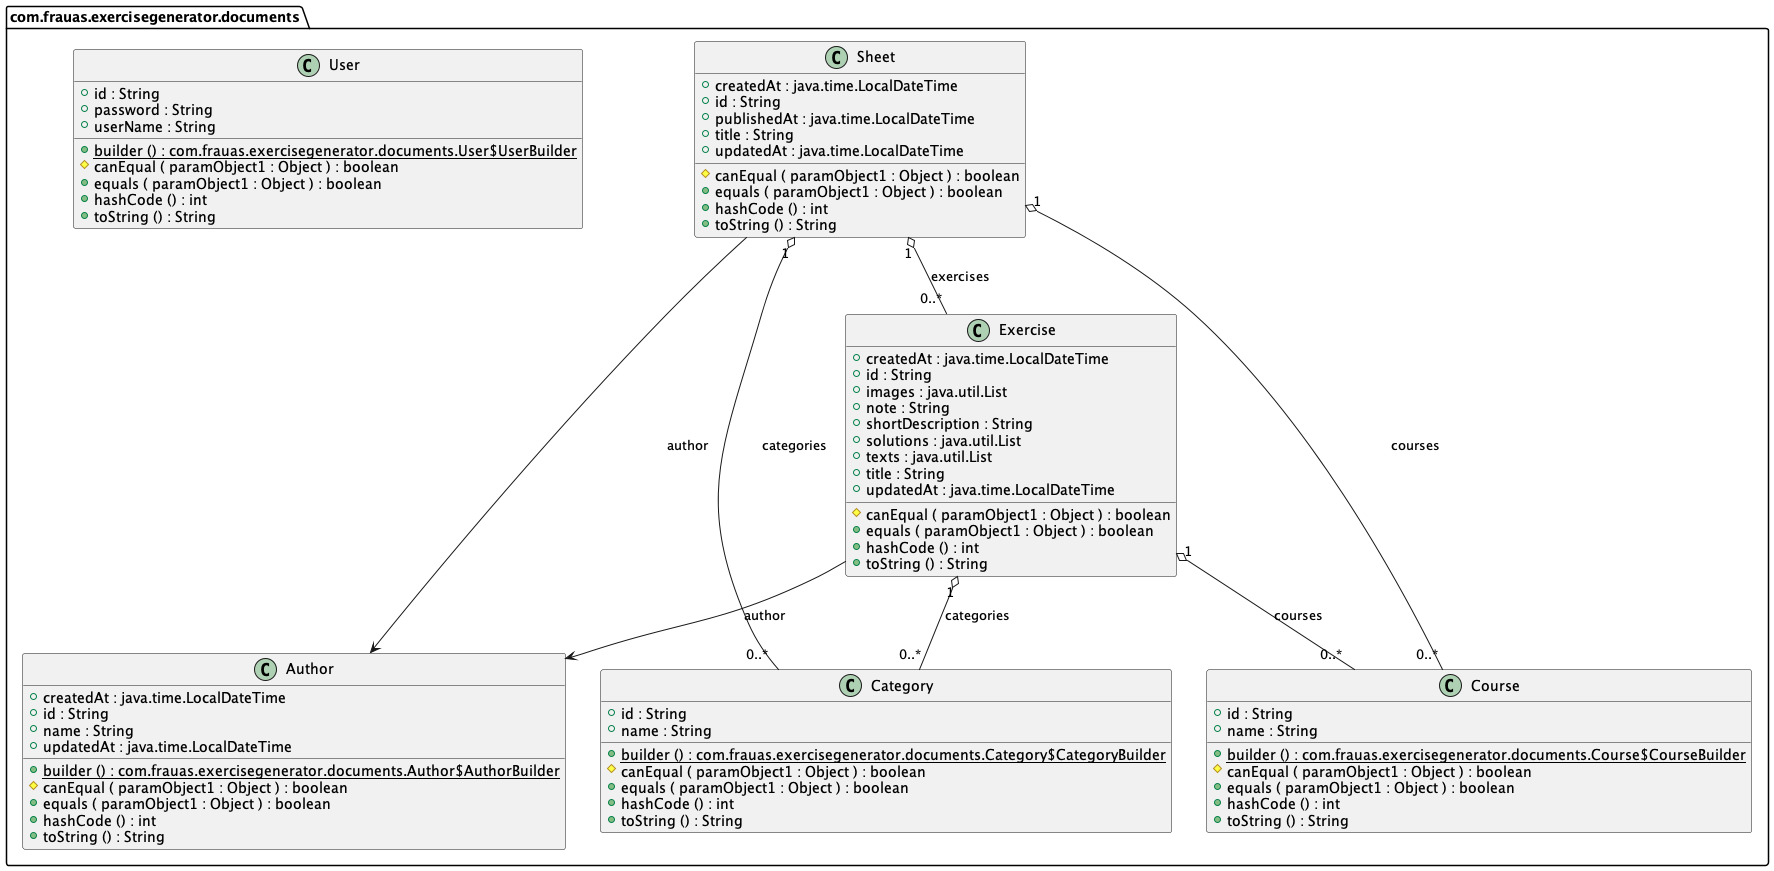
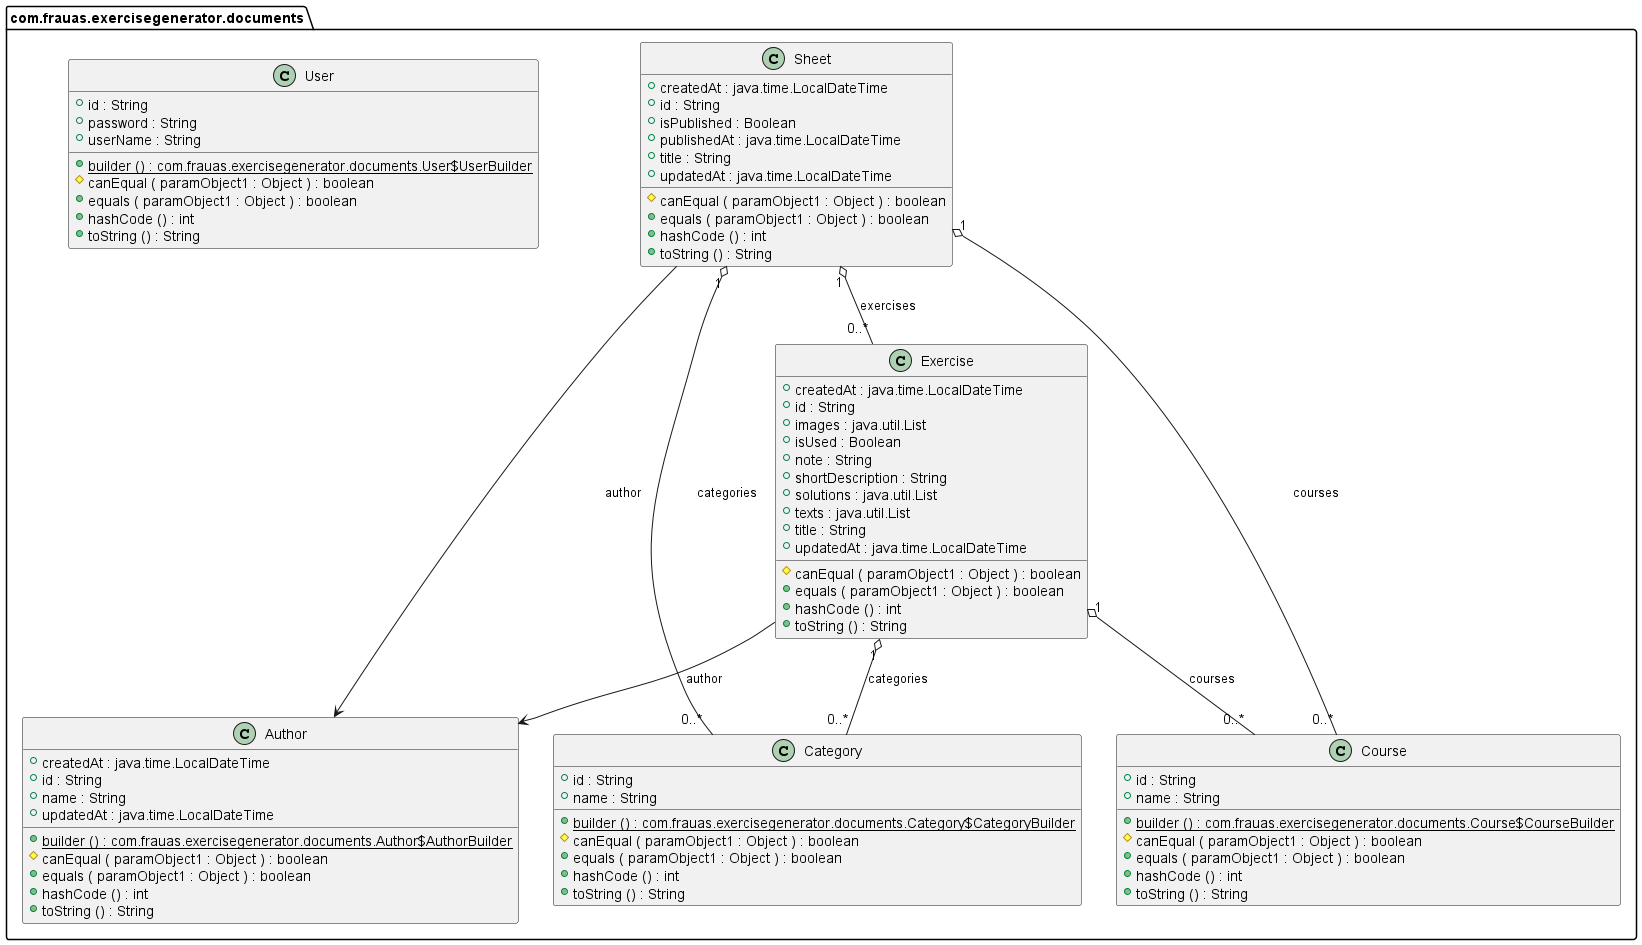
added isUsed and isPublished

diff --git a/src/main/java/com/frauas/exercisegenerator/services/SheetService.java b/src/main/java/com/frauas/exercisegenerator/services/SheetService.java
@@ -1,24 +1,19 @@
 package com.frauas.exercisegenerator.services;
 
-import java.time.LocalDateTime;
-import java.util.ArrayList;
-import java.util.List;
-
+import com.frauas.exercisegenerator.documents.*;
+import com.frauas.exercisegenerator.dtos.SheetDto;
+import com.frauas.exercisegenerator.repositories.AuthorRepository;
+import com.frauas.exercisegenerator.repositories.ExerciseRepository;
+import com.frauas.exercisegenerator.repositories.SheetRepository;
 import org.modelmapper.ModelMapper;
 import org.springframework.beans.factory.annotation.Autowired;
 import org.springframework.http.HttpStatus;
 import org.springframework.stereotype.Service;
 import org.springframework.web.server.ResponseStatusException;
 
-import com.frauas.exercisegenerator.documents.Author;
-import com.frauas.exercisegenerator.documents.Category;
-import com.frauas.exercisegenerator.documents.Course;
-import com.frauas.exercisegenerator.documents.Exercise;
-import com.frauas.exercisegenerator.documents.Sheet;
-import com.frauas.exercisegenerator.dtos.SheetDto;
-import com.frauas.exercisegenerator.repositories.AuthorRepository;
-import com.frauas.exercisegenerator.repositories.ExerciseRepository;
-import com.frauas.exercisegenerator.repositories.SheetRepository;
+import java.time.LocalDateTime;
+import java.util.ArrayList;
+import java.util.List;
 
 @Service
 public class SheetService {
@@ -74,8 +69,11 @@ public class SheetService {
 
         Sheet sheet = modelMapper.map(sheetDto, Sheet.class);
 
+        if(sheetDto.getIsPublished()){
+            sheet.setPublishedAt(LocalDateTime.now());
+            sheet.setIsPublished(true);
+        }
         sheet.setAuthor(author);
-        sheet.setPublishedAt(LocalDateTime.now());
         sheet.setCourses(courses);
         sheet.setCategories(categories);
         sheet.setExercises(exercises);
@@ -108,6 +106,14 @@ public class SheetService {
 
         ArrayList<Exercise> exercises = new ArrayList<>();
         exerciseRepository.findAllById(sheetDto.getExercises()).forEach(exercises::add);
+
+        if(sheetDto.getIsPublished() && !sheet.getIsPublished()){
+            sheet.setPublishedAt(LocalDateTime.now());
+            sheet.setIsPublished(true);
+        } else if (!sheetDto.getIsPublished() && sheet.getIsPublished()) {
+            sheet.setPublishedAt(null);
+            sheet.setIsPublished(false);
+        }
 
         sheet.setCourses(courses);
         sheet.setCategories(categories);

diff --git a/src/main/java/com/frauas/exercisegenerator/documents/Sheet.java b/src/main/java/com/frauas/exercisegenerator/documents/Sheet.java
@@ -1,22 +1,20 @@
 package com.frauas.exercisegenerator.documents;
 
-import java.time.LocalDateTime;
-import java.util.List;
-
+import com.frauas.exercisegenerator.mongo.UpsertSave;
+import lombok.Data;
+import lombok.NoArgsConstructor;
 import org.springframework.data.annotation.CreatedDate;
 import org.springframework.data.annotation.Id;
 import org.springframework.data.annotation.LastModifiedDate;
 import org.springframework.data.mongodb.core.mapping.DBRef;
 import org.springframework.data.mongodb.core.mapping.Document;
 
-import com.frauas.exercisegenerator.mongo.UpsertSave;
-
-import lombok.Data;
-import lombok.NoArgsConstructor;
+import java.time.LocalDateTime;
+import java.util.List;
 
 @Data
 @NoArgsConstructor
-@Document(collection = "sheets")
+@Document()
 public class Sheet {
 
     @Id
@@ -29,6 +27,8 @@ public class Sheet {
     private LocalDateTime updatedAt;
 
     private LocalDateTime publishedAt;
+
+    private Boolean isPublished;
 
     private String title;
 

diff --git a/src/main/java/com/frauas/exercisegenerator/documents/Exercise.java b/src/main/java/com/frauas/exercisegenerator/documents/Exercise.java
@@ -1,23 +1,22 @@
 package com.frauas.exercisegenerator.documents;
 
-import java.time.LocalDateTime;
-import java.util.List;
-
+import com.frauas.exercisegenerator.mongo.UpsertSave;
+import lombok.Data;
+import lombok.NoArgsConstructor;
 import org.springframework.data.annotation.CreatedDate;
 import org.springframework.data.annotation.Id;
 import org.springframework.data.annotation.LastModifiedDate;
 import org.springframework.data.mongodb.core.mapping.DBRef;
 import org.springframework.data.mongodb.core.mapping.Document;
 
-import com.frauas.exercisegenerator.mongo.UpsertSave;
-
-import lombok.Data;
-import lombok.NoArgsConstructor;
+import java.time.LocalDateTime;
+import java.util.List;
 
 @Data
 @NoArgsConstructor
 @Document()
 public class Exercise {
+
     @Id
     private String id;
 
@@ -26,6 +25,8 @@ public class Exercise {
 
     @LastModifiedDate
     private LocalDateTime updatedAt;
+
+    private Boolean isUsed;
 
     @DBRef
     private Author author;

diff --git a/src/main/java/com/frauas/exercisegenerator/dtos/SheetDto.java b/src/main/java/com/frauas/exercisegenerator/dtos/SheetDto.java
@@ -1,16 +1,18 @@
 package com.frauas.exercisegenerator.dtos;
 
-import java.util.List;
+import lombok.AllArgsConstructor;
+import lombok.Data;
 
 import javax.validation.constraints.NotEmpty;
 import javax.validation.constraints.NotNull;
-
-import lombok.AllArgsConstructor;
-import lombok.Data;
+import java.util.List;
 
 @Data
 @AllArgsConstructor
 public class SheetDto {
+
+    private Boolean isPublished;
+
     @NotNull
     private String title;
 

diff --git a/src/main/java/com/frauas/exercisegenerator/documents/User.java b/src/main/java/com/frauas/exercisegenerator/documents/User.java
@@ -1,14 +1,13 @@
 package com.frauas.exercisegenerator.documents;
 
+import lombok.Builder;
+import lombok.Data;
 import org.springframework.data.annotation.Id;
 import org.springframework.data.mongodb.core.mapping.Document;
 
-import lombok.Builder;
-import lombok.Data;
-
 @Data
 @Builder
-@Document(collection = "users")
+@Document()
 public class User {
 
     @Id

diff --git a/src/main/java/com/frauas/exercisegenerator/dtos/ExerciseDto.java b/src/main/java/com/frauas/exercisegenerator/dtos/ExerciseDto.java
@@ -1,14 +1,15 @@
 package com.frauas.exercisegenerator.dtos;
 
-import java.util.List;
+import lombok.Data;
 
 import javax.validation.constraints.NotEmpty;
 import javax.validation.constraints.NotNull;
-
-import lombok.Data;
+import java.util.List;
 
 @Data
 public class ExerciseDto {
+
+    private Boolean isUsed;
 
     @NotNull
     private String title;
